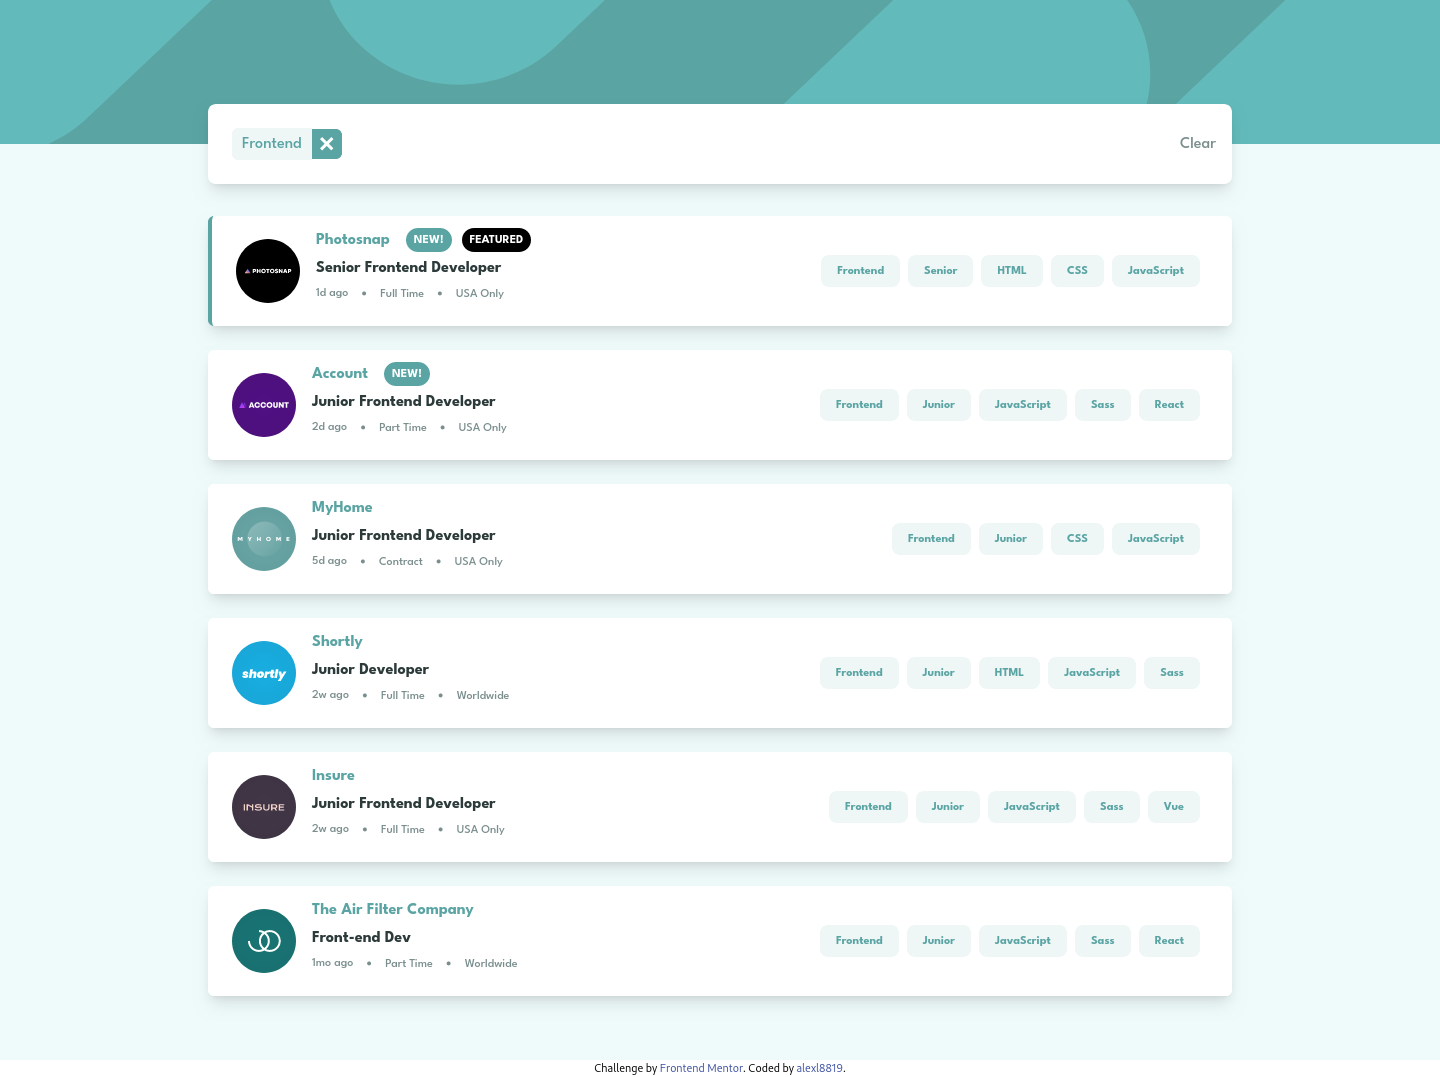
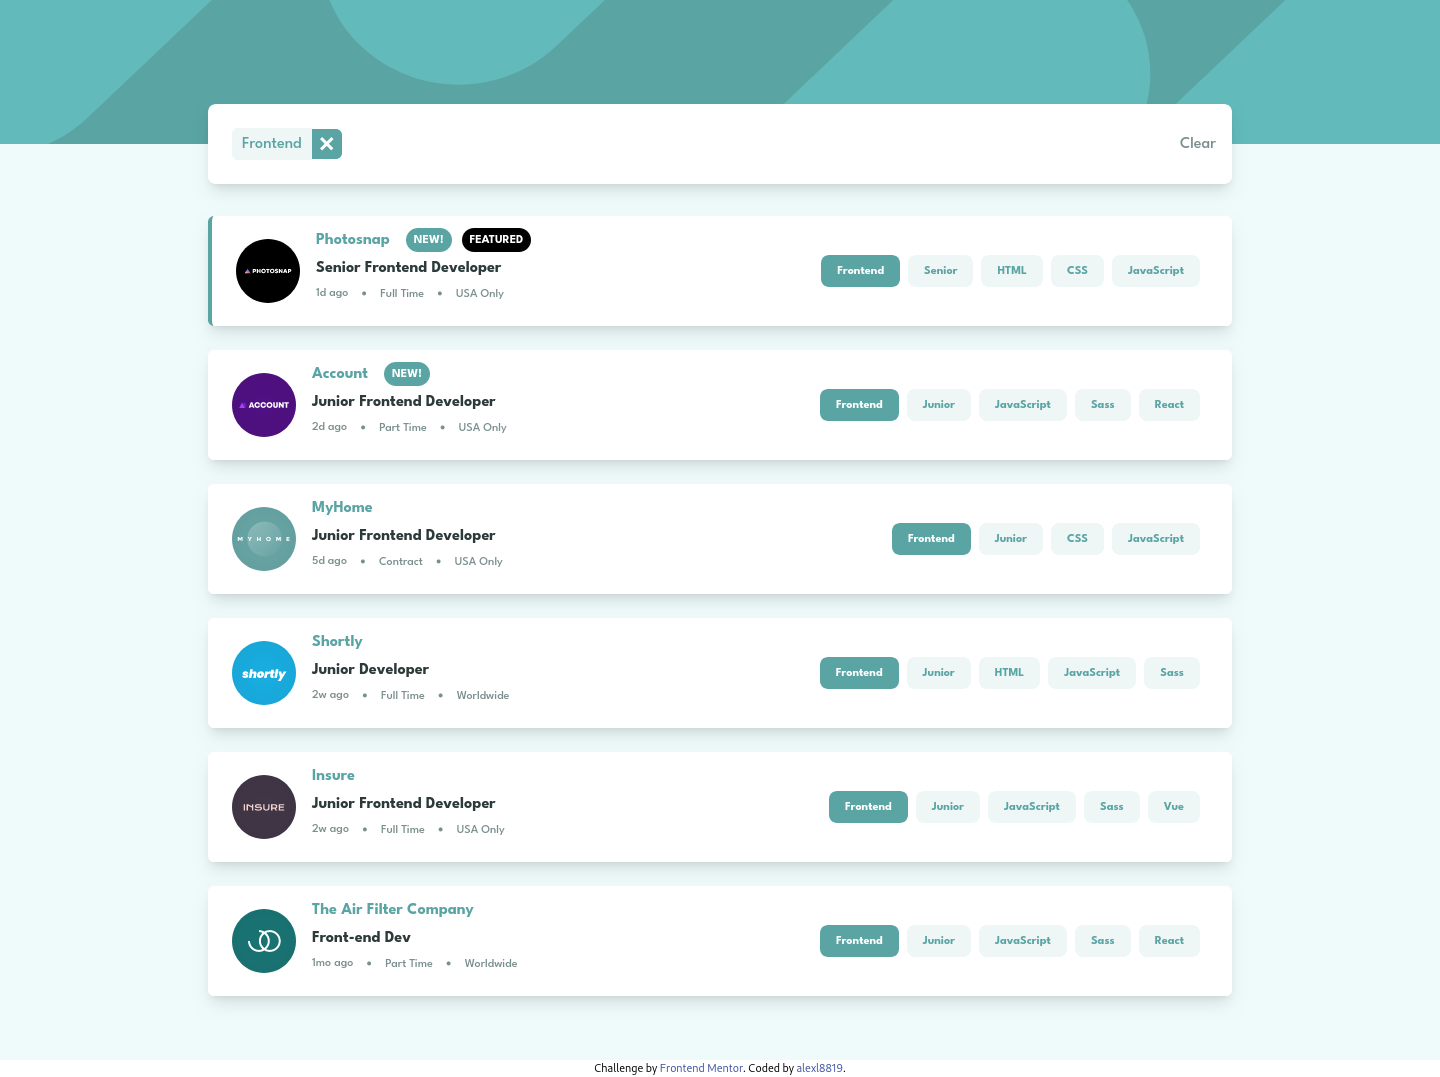
refactor: add extra styling change for better ux, updated desktop screenshot to reflect said change

diff --git a/src/components/JobsList.vue b/src/components/JobsList.vue
@@ -11,6 +11,7 @@
   const filteredJobs = computed(() => !props.selectedFilter.size ? props.jobs : props.jobs.filter((job) => Array.from(props.selectedFilter).every((v) => job.selectable.includes(v))));
   // Methods
   const isFeaturedNew = (job) => job.new && job.featured ? 'border-l-4 border-l-desaturated-dark-cyan' : '';
+  const isActive = (tablet) => props.selectedFilter.has(tablet);
   const createLogo = (logo) => new URL(`../assets/images/${logo}`, import.meta.url).href;
 </script>
 
@@ -40,7 +41,10 @@
         </div>
         <div class="mt-3 lg:mt-0 lg:h-12 lg:py-2">
           <template v-for="tablet in job.selectable" :key="tablet">
-            <button type="button" class="mb-6 mr-2 inline-block cursor-pointer rounded-lg bg-light-greyish-cyan-2 px-2.5 lg:px-4 py-1 lg:py-2 text-desaturated-dark-cyan hover:bg-desaturated-dark-cyan hover:text-white lg:text-xs font-bold" @click.prevent="$emit('addFilter', tablet)">
+            <button type="button" class="mb-6 mr-2 inline-block cursor-not-allowed rounded-lg bg-desaturated-dark-cyan px-2.5 lg:px-4 py-1 lg:py-2 text-white lg:text-xs font-bold" v-if="isActive(tablet)">
+            {{ tablet }}
+            </button>
+            <button type="button" class="mb-6 mr-2 inline-block cursor-pointer rounded-lg bg-light-greyish-cyan-2 px-2.5 lg:px-4 py-1 lg:py-2 text-desaturated-dark-cyan hover:bg-desaturated-dark-cyan hover:text-white lg:text-xs font-bold" @click.prevent="$emit('addFilter', tablet)" v-else>
             {{ tablet }}
             </button>
           </template>
